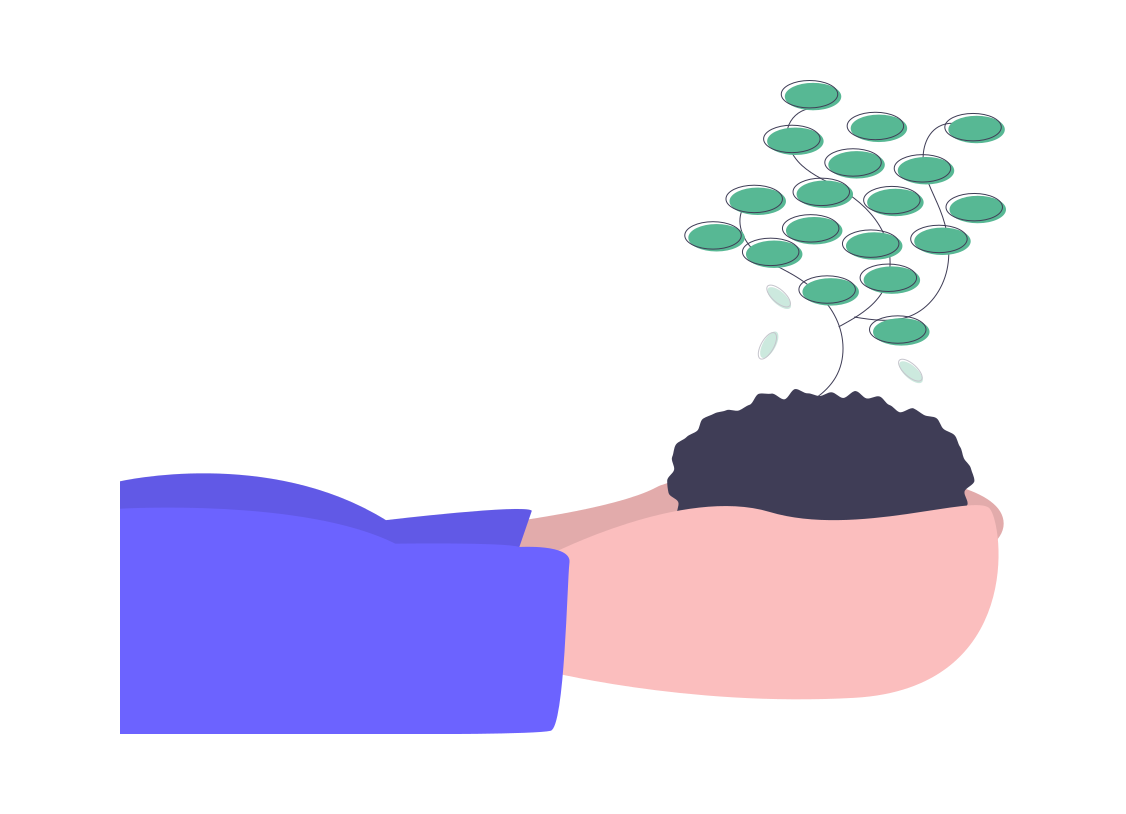
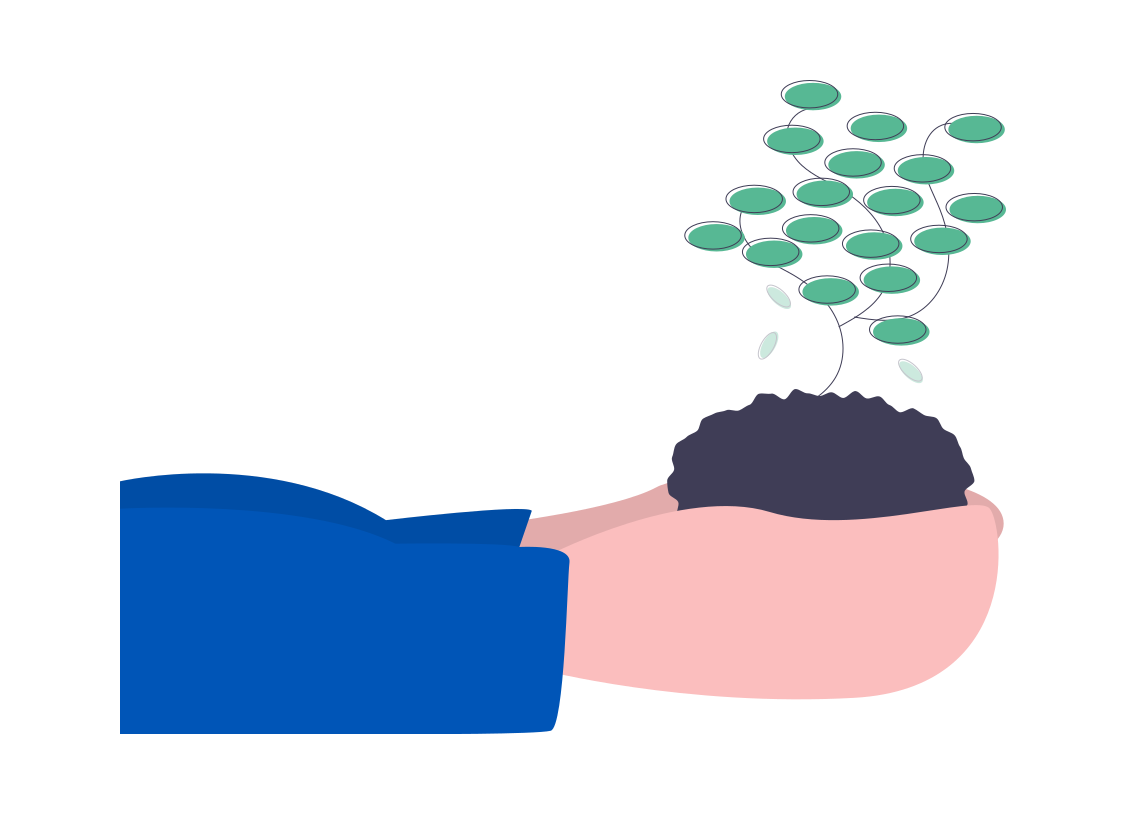
update front page

Changed region(s): [[0.0933, 0.5835, 0.5284, 0.9214]]

diff --git a/_includes/research.html b/_includes/research.html
@@ -9,7 +9,7 @@
               <img src="{{ site.baseurl }}/assets/img/timeslice.png" alt="">
             </figure>
             <div class="card-content is-overlay is-clipped">
-              <span class="tag is-info is-light">
+              <span class="tag is-link is-light">
                 Wang et al. (2019)
               </span>       
             </div>
@@ -28,7 +28,7 @@
               <img src="{{ site.baseurl }}/assets/img/control.png" alt="">
             </figure>
             <div class="card-content is-overlay is-clipped">
-              <span class="tag is-info is-light">
+              <span class="tag is-link is-light">
                 Rippon et al. (2019)
               </span>       
             </div>
@@ -47,7 +47,7 @@
               <img src="{{ site.baseurl }}/assets/img/rl2.png" alt="">
             </figure>
             <div class="card-content is-overlay is-clipped">
-              <span class="tag is-info is-light">
+              <span class="tag is-link is-light">
                 Spielberg et al. (2019)
               </span>       
             </div>
@@ -66,7 +66,7 @@
               <img src="{{ site.baseurl }}/assets/img/alarm.png" alt="">
             </figure>
             <div class="card-content is-overlay is-clipped">
-              <span class="tag is-info is-light">
+              <span class="tag is-link is-light">
                 Tulsyan et al. (2019)
               </span>       
             </div>

diff --git a/_layouts/home.html b/_layouts/home.html
@@ -9,6 +9,23 @@ layout: default
     <hr>
     {% include industries.html %}
     <hr>
+    
+    <div class="content">
+      <h3>About Us</h3>
+    </div>
+    <div class="columns is-multiline">
+      <div class="column is-one-fifth is-full-tablet">
+        <figure class="image is-pulled-right is-128x128">
+          <img class="is-rounded" style="height: 100%; object-fit: cover;" src="{{ site.baseurl }}/assets/profile/bhushan.jpg">
+        </figure>
+      </div> 
+      <div class="column">   
+        <div class="content">
+          <blockquote><p><b>Dr. Bhushan Gopaluni</b> leads research at the DAIS Lab. He is a professor in the Department of Chemical and Biological Engineering and an Associate Dean for Education and Professional Development in the Faculty of Applied Science at the University of British Columbia.</p>
+          <p>For a full biography, please see the <a href="{{ site.baseurl }}/about/">About</a> page.</p></blockquote>
+        </div>
+      </div>
+    </div>
 
     <div class="content">
       {{ content }}

diff --git a/_layouts/default.html b/_layouts/default.html
@@ -22,6 +22,18 @@
       color: #0055B7 !important;
     }
 
+    .has-text-orange {
+      color: #FF9A00 !important;
+    }
+
+    .has-background-orange {
+      background-color: #FF9A00 !important;
+    }      
+
+    .has-text-orangemuted {
+      color: #DB4D00 !important;
+    }    
+
     .has-text-blue {
       color: #00A7E1 !important;
     }

diff --git a/_includes/sidebar.html b/_includes/sidebar.html
@@ -1,4 +1,4 @@
-  <article class="message is-small is-warning">
+  <article class="message is-small is-link">
     <div class="message-header">
       <b><i class="fas fa-bullhorn"></i> Highlights</b>
     </div>    

diff --git a/index.md b/index.md
@@ -3,5 +3,11 @@ layout: home
 title: Home
 ---
 
-### Information
-Please see our [publications list]({{ site.baseurl }}/publications/) for more information on our research. Some examples of current and past projects are also available on our [team page]({{ site.baseurl }}/people/).
+Please see our [publications list]({{ site.baseurl }}/publications/) for more information on our research. Our team members and some examples of current and past projects are also available on our [team page]({{ site.baseurl }}/people/). We upload our presentations and workshops to the [resources page]({{ site.baseurl }}/resources/).
+
+Our group is recruiting year-round for postdocs, MASc and PhD students, visiting students and undergraduate students. All admitted students will receive a stipend. If you're interested in pursuing research or graduate studies, please email a copy of your:
+
+- CV, and
+- Research Statement
+
+
